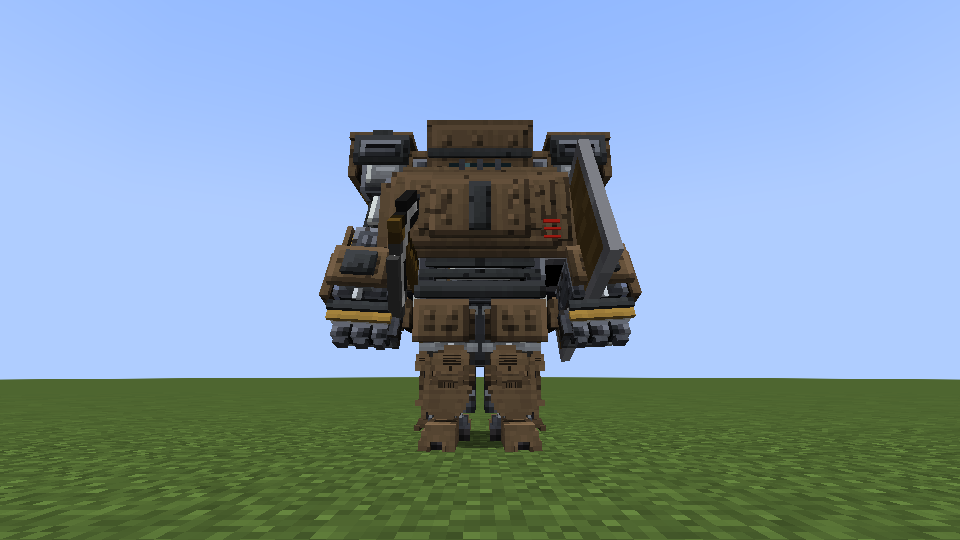
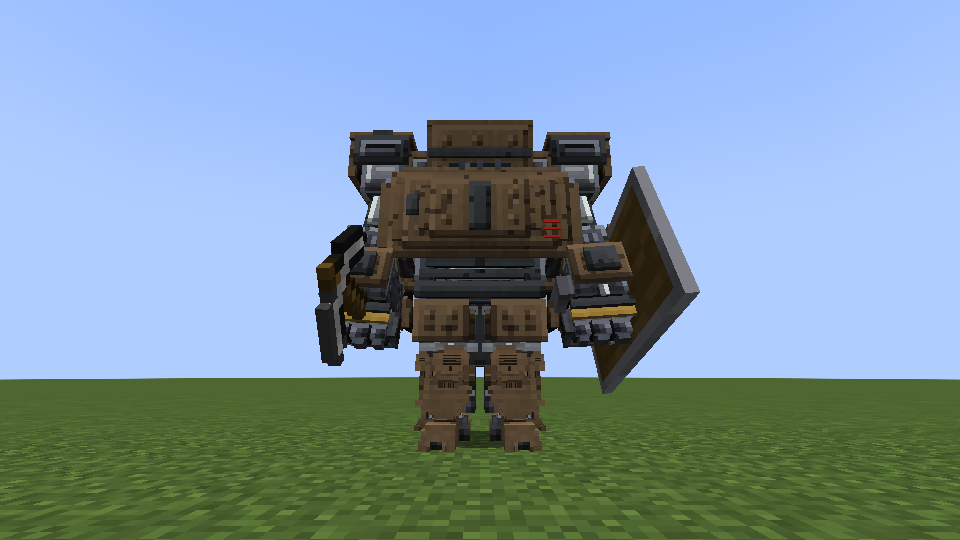
docs: movimento di arti e testa, gambe a un colore, riporti della revisione finale, scatti delle mani rifatti
- docs/arte/README.md: ampiezze vere del passo (gambe circa 69 e 80 gradi, braccia 49
  e 57) e i contatti fino a 81 gradi per gambe, braccia e testa da swing.py; il pezzo
  delle gambe ha solo la regione primaria (per la parte 3a resta cosi'); frasi superate
  (blocco della spina, anteprime rottame-v4 precedenti alle passate dopo) e rimando
  all'eccezione della parte bassa delle gambe.
- Checklist: cosa e' gia' noto in "Correre", "Vista laterale" e "Un secondo giocatore",
  con la domanda a Luigi; colori delle gambe; server dedicato come voce propria;
  pappagalli e frecce; dipendenze in mods; riga delle mani riscritta.
- Spec: due mixin (par. 3), materiale redstone_exoframes_frame, limiti del par. 5.1 come
  nel codice (y 0..31,25 e 0..32), nuova sezione 10 "Riporti dalla revisione finale
  della parte 3a" (3b, M4, prima dell'alpha).
- Scatti 1.21.1-neoforge-mani.png e 1.20.1-forge-mani.png rifatti: il manico del piccone
  nel pugno destro della tuta, lo scudo sul lato esterno del pugno sinistro.
- .gitattributes: script .sh sempre con fine riga LF (Git per Windows).

Claude-Session: https://claude.ai/code/session_018Fcbc2CFSwuiCoDaNxQwgt

Changed region(s): [[0.5625, 0.2667, 0.75, 0.7407], [0.3125, 0.3556, 0.4375, 0.6815]]

diff --git a/docs/test-in-gioco/m3a-vedere-il-telaio.md b/docs/test-in-gioco/m3a-vedere-il-telaio.md
@@ -41,14 +41,14 @@ Con `tools/client/m3a_shots.sh`, sul client di **sviluppo** di ogni variante (no
 | Sdraiati: tuta distesa a terra con il giocatore | sì | sì | sì | sì |
 | Log: avvisi del mod o errori dei mixin | nessuno | nessuno | nessuno | nessuno |
 
-Da sdraiati il pilota, dentro il telaio, si intravede appena dagli angoli raggiungibili dallo script: che stia nella tuta lo conferma il PC (sezione 2). Gli scatti di riferimento sono in `m3a-screenshot/`: per ogni variante `<variante>-armata-fronte.png` e `-armata-retro.png` (Rottame, stato 0), e per 1.21.1 NeoForge e 1.20.1 Forge anche `-nudo-fronte.png`, `-stati.png`, `-colori.png`, `-mani.png`, `-sdraiato.png`. Sono stati fatti con grafica "Dettagliata", campo visivo 70 e distanza di rendering 4.
+Da sdraiati il pilota, dentro il telaio, si intravede appena dagli angoli raggiungibili dallo script: che stia nella tuta lo conferma il PC (sezione 2). Gli scatti di riferimento sono in `m3a-screenshot/`: per ogni variante `<variante>-armata-fronte.png` e `-armata-retro.png` (Rottame, stato 0), e per 1.21.1 NeoForge e 1.20.1 Forge anche `-nudo-fronte.png`, `-stati.png`, `-colori.png`, `-mani.png`, `-sdraiato.png`. Sono stati fatti con grafica "Dettagliata", campo visivo 70 e distanza di rendering 4. I due `-mani.png` sono stati rifatti dopo la revisione finale, che ha portato l'oggetto impugnato dalla mano del gioco base ingrandita al pugno della tuta.
 
 Il cloud non prova tre cose, che sono il motivo di questa checklist: che il **jar di produzione** si avvii e applichi i suoi mixin fuori dall'ambiente di sviluppo (nel cloud gira il client di sviluppo di Loom); ciò che si vede **muovendosi** o da angolazioni che lo script non raggiunge; ciò che vede **un altro giocatore**.
 
 ## 0. Preparazione
 
 - [ ] Procurati i quattro jar di questa parte come nella sezione 0 di `m1-setup.md` (artefatto `redstone-exoframes-jars` dell'ultima esecuzione verde della CI sul branch **`m3-telaio`**, non su `main`: la parte 3a sta su `m3-telaio` finché non viene unita; dopo l'unione gli stessi jar vengono da `main`. Oppure build locale con `collectJar` da quel branch): `redstone-exoframes-fabric-0.1.0+mc1.20.1.jar`, `redstone-exoframes-fabric-0.1.0+mc1.21.1.jar`, `redstone-exoframes-forge-0.1.0+mc1.20.1.jar`, `redstone-exoframes-neoforge-0.1.0+mc1.21.1.jar`. Controllali con `bash tools/check_jars.sh <cartella>`.
-- [ ] Usa le quattro istanze client e i quattro server dedicati della milestone 1 (tabella dei profili in `m1-setup.md`, sezione 2: loader, Java e dipendenze, con GeckoLib). Sostituisci nella cartella `mods` il jar vecchio con quello nuovo; nient'altro in `mods`.
+- [ ] Usa le quattro istanze client e i quattro server dedicati della milestone 1 (tabella dei profili in `m1-setup.md`, sezione 2: loader, Java e dipendenze, con GeckoLib). Sostituisci nella cartella `mods` il jar vecchio con quello nuovo; in `mods` nessun altro mod oltre alle dipendenze della tabella (loader API e GeckoLib restano).
 - [ ] Tieni aperta la cartella `docs/test-in-gioco/m3a-screenshot/` del repository: contiene gli scatti di riferimento del cloud, citati sotto.
 - [ ] Per gli screenshot del gioco usa F2 (finiscono in `<istanza>\screenshots\`), con F1 per nascondere l'interfaccia e F5 per la terza persona.
 
@@ -72,22 +72,24 @@ Accanto a ogni voce lo scatto di riferimento. Gli scatti del cloud sono del clie
 - [ ] **Telaio nudo.** `/exoframe debug wear nudo`, F5 due volte. La tuta è alta circa tre blocchi, con i piedi a terra (non sprofonda e non galleggia); per misurarla metti accanto, a tre blocchi di distanza, una colonna di tre blocchi: la testa della tuta arriva più o meno alla sua cima. Il pilota si vede dalla vita in su dentro lo scheletro, con la testa nella testa della tuta; **le gambe del pilota non si vedono da nessun lato**. Riferimento: `m3a-screenshot/1.21.1-neoforge-nudo-fronte.png`, `m3a-screenshot/1.20.1-forge-nudo-fronte.png`.
 - [ ] **Rottame, stato 0.** `/exoframe debug wear rottame`. Davanti e dietro, **nessuna parte della skin** si vede: né testa, né busto, né braccia, né gambe, nemmeno il secondo strato (giacca, cappello). Da dietro si vede la cella di redstone accesa dietro le sue sbarre. Riferimento: `m3a-screenshot/<variante>-armata-fronte.png` e `-armata-retro.png` (uno per variante).
 - [ ] **Quattro stati.** `/exoframe debug wear rottame 0`, poi `1`, `2`, `3`: dal più pulito al più scuro e rovinato, nell'ordine; nello stato 3 la superficie è quasi carbone e metà delle spie è spenta. Riferimento: `m3a-screenshot/1.21.1-neoforge-stati.png`, `m3a-screenshot/1.20.1-forge-stati.png` (da sinistra stato 0, 1, 2, 3).
-- [ ] **Colori di prova.** `/exoframe debug wear rottame 0 3A6EA5 D9D9D9`. Le piastre principali diventano blu, le secondarie grigio chiaro; restano dei loro colori il telaio sotto (acciaio, ottone, cavi), vetri, sbarre, feritoie e fessure rosse. Riferimento: `m3a-screenshot/1.21.1-neoforge-colori.png`, `m3a-screenshot/1.20.1-forge-colori.png`.
-- [ ] **Oggetto in mano.** `/exoframe debug wear rottame`, poi un piccone di ferro nella mano principale e uno scudo nell'altra (`/item replace entity @s weapon.offhand with minecraft:shield`). Il piccone sta nella mano destra della tuta, grande come lei; lo scudo nella sinistra; nessuno dei due sotto i pugni della tuta o dentro il braccio. Nello scatto di riferimento, da davanti, il piccone si vede di taglio, come una barra scura che sale dal pugno destro della tuta (a sinistra per chi guarda); lo scudo copre l'avambraccio sinistro. Riferimento: `m3a-screenshot/1.21.1-neoforge-mani.png`, `m3a-screenshot/1.20.1-forge-mani.png`.
+- [ ] **Colori di prova.** `/exoframe debug wear rottame 0 3A6EA5 D9D9D9`. Le piastre principali diventano blu, le secondarie grigio chiaro; **sulle gambe tutto diventa blu**: dalla parte bassa delle gambe rifatta sul riferimento il pezzo delle gambe ha solo il colore primario (è noto, per ora resta così; se le gambe debbano avere di nuovo parti nel colore secondario lo decide Luigi). Restano dei loro colori il telaio sotto (acciaio, ottone, cavi), vetri, sbarre, feritoie e fessure rosse. Riferimento: `m3a-screenshot/1.21.1-neoforge-colori.png`, `m3a-screenshot/1.20.1-forge-colori.png`.
+- [ ] **Oggetto in mano.** `/exoframe debug wear rottame`, poi un piccone di ferro nella mano principale e uno scudo nell'altra (`/item replace entity @s weapon.offhand with minecraft:shield`). Il piccone sta nel pugno destro della tuta, grande come lei; lo scudo alla mano sinistra; nessuno dei due sotto i pugni della tuta, dentro il braccio o tra l'avambraccio e il busto. Nello scatto di riferimento, da davanti, il piccone si vede di taglio: il manico di legno scende nel pugno destro della tuta (a sinistra per chi guarda) e la testa di ferro, una barra scura, sta appena fuori dal pugno, verso l'esterno; lo scudo è inclinato sul lato esterno del pugno e dell'avambraccio sinistri e ne copre il bordo. Riferimento: `m3a-screenshot/1.21.1-neoforge-mani.png`, `m3a-screenshot/1.20.1-forge-mani.png`.
 - [ ] **Sdraiati.** `/exoframe debug wear nudo`, poi metti un blocco sopra la testa a un blocco d'altezza dai piedi (per esempio `/setblock ~ ~1 ~ minecraft:glass`): il gioco ti mette a strisciare. Tuta e pilota sono distesi insieme, a terra, la tuta non resta in piedi né sospesa. Guarda da dietro e di tre quarti: davanti, sdraiati, la telecamera finisce contro la testa. Lo scatto di riferimento è di tre quarti da dietro: stinchi e piedi della tuta sono la parte più vicina, a destra; la testa è dalla parte opposta, sotto e oltre il blocco di vetro; davanti a sinistra si vede una mano della tuta. Il pilota da quell'angolo non si vede. Riferimento: `m3a-screenshot/1.21.1-neoforge-sdraiato.png`, `m3a-screenshot/1.20.1-forge-sdraiato.png`.
 - [ ] **Via.** `/exoframe debug wear via`: la tuta sparisce, torna il giocatore normale, intero e a terra.
 - [ ] Nel log, dopo tutte queste prove, nessuna riga `ERROR` o `WARN` che nomina `redstone_exoframes`, `exoframe`, `geckolib` o un mixin.
 
 ## 3. Ciò che il cloud non vede
 
-- [ ] **Vista laterale.** Con la tuta Rottame e poi col telaio nudo, guarda di lato (in terza persona gira la visuale col mouse finché il corpo si gira, oppure da un secondo giocatore, voce "Un secondo giocatore" più sotto). Il pilota sta dentro la tuta anche di profilo: la testa non esce dal retro dell'elmo, il busto non esce dalla schiena. Fai uno screenshot di lato per ciascun caso.
+- [ ] **Vista laterale.** Con la tuta Rottame e poi col telaio nudo, guarda di lato. Da solo non si ottiene un profilo esatto: in terza persona, girando la visuale col mouse, il corpo segue la testa solo dopo circa 50 gradi, quindi si vede la tuta di tre quarti con la testa girata. Per il profilo vero serve il secondo client (voce "Un secondo giocatore" più sotto); qui guarda almeno di tre quarti. Il pilota sta dentro la tuta anche di profilo: la testa non esce dal retro dell'elmo, il busto non esce dalla schiena. Già noto: girando la testa, l'elmo gira dentro il collare e lo attraversa (l'elmo è incassato nel collare per disegno, e la tuta non ha ancora un'animazione propria). Fai uno screenshot di lato (o di tre quarti) per ciascun caso.
 - [ ] **Accovacciarsi.** Tieni premuto Shift con il telaio nudo e con il Rottame: la tuta si china con il pilota, i piedi restano a terra, il pilota non esce dal petto. Con un oggetto in mano, l'oggetto resta nella mano della tuta.
-- [ ] **Correre.** Corri (doppio W o Ctrl) per qualche secondo in terza persona: braccia e gambe della tuta si muovono con quelle del giocatore, nessun pezzo resta indietro o sfarfalla.
+- [ ] **Correre.** Corri (doppio W o Ctrl) per qualche secondo in terza persona: braccia e gambe della tuta si muovono con quelle del giocatore, nessun pezzo resta indietro o sfarfalla. Già noto, non è un errore da riportare: gli arti della tuta oscillano quanto quelli del giocatore (circa 70 gradi le gambe camminando, 80 correndo; le braccia 50 e 57), più di quanto la tuta permetta, quindi a ogni passo le piastre si attraversano: le gambe entrano nelle parti basse della schiena (correndo fino al fondo dell'alloggiamento della cella), le braccia passano nelle falde laterali del torso. La soluzione è prevista con le animazioni (milestone 4). **Domanda per Luigi:** guardando la corsa, è accettabile così fino ad allora? Rispondi sì o no, con uno screenshot preso nel mezzo di un passo.
 - [ ] **Nuotare.** Entra in acqua profonda e nuota con lo scatto (posa da nuoto): tuta e pilota restano uniti, come da sdraiati.
 - [ ] **Inventario.** Apri l'inventario in sopravvivenza (`/gamemode survival`, poi E): l'anteprima del giocatore mostra la tuta; annota se è tagliata dal riquadro (è grande, può succedere: riportalo con uno screenshot, non è un errore bloccante). Nessun crash.
 - [ ] **Skin normale e sottile.** Ripeti telaio nudo e Rottame con una skin a braccia larghe (Steve) e con una a braccia sottili (Alex), dalle impostazioni della skin del launcher. Con la sottile le braccia del pilota stanno ancora nella tuta e l'oggetto impugnato resta nella mano della tuta.
 - [ ] **Mantello.** Con un account che ha un mantello (se disponibile; altrimenti annota "non provato"): con la tuta il mantello si vede o no, e dove. Riporta uno screenshot da dietro; qualunque cosa si veda è un'informazione per Luigi, non c'è un risultato atteso.
-- [ ] **Un secondo giocatore.** Avvia il server dedicato della variante con il nuovo jar (cartella del server di `m1-setup.md`), entra con due client (due account, o due istanze dello stesso launcher). Il primo esegue `/exoframe debug wear rottame 1 3A6EA5 D9D9D9` (serve essere operatore: `op <nome>` dalla console del server). Il secondo lo guarda da davanti, di lato e da dietro mentre il primo sta fermo, cammina, si accovaccia, tiene un oggetto: vede la stessa tuta, stesso stato e stessi colori, e il pilota dentro. La targhetta col nome del primo resta all'altezza normale di un giocatore (dentro la tuta, all'altezza del petto): è noto e voluto fino alla parte 3b, annotalo solo se è diverso. Poi `/exoframe debug wear via`: anche il secondo vede sparire la tuta.
+- [ ] **Pappagalli e frecce.** In creativa, con la tuta Rottame: fai salire un pappagallo sulla spalla (uovo generatore di pappagallo, addomesticalo con dei semi, poi, se è seduto, fallo alzare con il clic destro e passagli accanto finché non ti sale sulla spalla) e fatti colpire da qualche freccia (`/gamemode survival` e un dispensatore con frecce, o un secondo giocatore con l'arco). Pappagallo e frecce conficcate seguono il pilota, non la tuta: annota dove si vedono, con uno screenshot; come per il mantello, non c'è un risultato atteso.
+- [ ] **Server dedicato.** Avvia il server dedicato della variante con il nuovo jar (cartella del server di `m1-setup.md`, sezione del server: stesso loader, stessi jar in `mods`, `eula=true`). Attendi `Done (...)!` in `logs\latest.log` del server, senza righe `ERROR` del mod. Entra con un client, diventa operatore (`op <nome>` dalla console del server), esegui `/exoframe debug wear rottame` e poi `/exoframe debug wear via`: nessun crash del server né del client. Questa voce si fa anche con un solo account.
+- [ ] **Un secondo giocatore.** Sul server della voce precedente entra con due client (due account, o due istanze dello stesso launcher). Il primo esegue `/exoframe debug wear rottame 1 3A6EA5 D9D9D9` (serve essere operatore: `op <nome>` dalla console del server). Il secondo lo guarda da davanti, di lato e da dietro mentre il primo sta fermo, cammina, si accovaccia, tiene un oggetto: vede la stessa tuta, stesso stato e stessi colori, e il pilota dentro. La targhetta col nome del primo resta all'altezza normale di un giocatore (dentro la tuta, all'altezza del petto): è noto e voluto fino alla parte 3b, annotalo solo se è diverso. Da qui si vede anche il profilo vero della tuta (voce "Vista laterale"): fai uno screenshot di lato. Anche qui, camminando, le piastre si attraversano (voce "Correre"): è noto; annota solo se l'effetto visto da un altro giocatore ti sembra diverso da quello in terza persona. Poi `/exoframe debug wear via`: anche il secondo vede sparire la tuta.
 - [ ] **Fluidità.** Con la tuta Rottame in terza persona, guarda il contatore F3 (fps) per un minuto confrontandolo con lo stesso posto senza tuta (`/exoframe debug wear via`). Annota i due valori; un calo grande (oltre un terzo) è da riportare. Nessuno scatto o blocco del gioco.
 - [ ] **Prima persona.** In prima persona il braccio è quello normale del giocatore (la tuta in prima persona arriva in una milestone successiva): annotalo solo se è diverso.
 
@@ -98,7 +100,8 @@ Per ognuna delle quattro varianti:
 - [ ] esito (OK / non OK) di ogni voce delle sezioni 1, 2 e 3;
 - [ ] per la sezione 1, se il client non parte: crash report e ultime cento righe di `latest.log`;
 - [ ] per ogni voce non OK: uno screenshot con l'interfaccia nascosta (F1) e una riga che dice cosa si vede di diverso dal riferimento (per esempio "gambe del pilota visibili sotto il petto", "scudo sotto il pugno sinistro", "tuta sospesa mezzo blocco da sdraiati");
-- [ ] gli screenshot chiesti anche quando va tutto bene: Rottame di lato, accovacciati, anteprima nell'inventario, il mantello, la vista del secondo giocatore;
+- [ ] gli screenshot chiesti anche quando va tutto bene: Rottame di lato, accovacciati, a metà di un passo di corsa, anteprima nell'inventario, il mantello, pappagallo e frecce, la vista del secondo giocatore;
+- [ ] la risposta di Luigi alla domanda della voce "Correre" (piastre che si attraversano: accettabile fino alla milestone 4, sì o no);
 - [ ] ogni riga `ERROR` o `WARN` del log che nomina il mod, GeckoLib o un mixin, con qualche riga di contesto;
 - [ ] gli fps con e senza tuta;
 - [ ] versioni realmente usate (loader, Java, dipendenze) se diverse dalla tabella di `m1-setup.md`, e i passi saltati con il motivo.

diff --git a/docs/superpowers/specs/2026-11-13-m3-telaio-design.md b/docs/superpowers/specs/2026-11-13-m3-telaio-design.md
@@ -32,7 +32,7 @@ Perché ora: è il pezzo tecnicamente nuovo rispetto a Mjolnir e quello da cui d
 - Quattro varianti da un solo sorgente (Stonecutter + Architectury Loom); condizioni solo in `compat/impl`, `platform/` e `compat/Ids.java` (`tools/check_sources.sh`).
 - `core/` resta Java 17 puro e testato con JUnit.
 - Lo stato del telaio per giocatore vive nel `SavedData` (`FrameStateAccess`); le scritture a ogni tick passano da `mutate` e la sincronizzazione al proprietario resta sotto le 5 volte al secondo.
-- I mixin si usano solo dove nessun evento copre il bisogno (scelta del costruttore, vedi §4.3 e §4.7). Oggi ce n'è uno, lato client, sul disegno del giocatore; tutto il resto passa da eventi Architectury o da hook per loader in `platform/`.
+- I mixin si usano solo dove nessun evento copre il bisogno (scelta del costruttore, vedi §4.3 e §4.7). Oggi ce ne sono due, lato client, sul disegno del giocatore (`PlayerRendererMixin` e `ItemInHandLayerMixin`, §4.7); tutto il resto passa da eventi Architectury o da hook per loader in `platform/`.
 - La grafica è generata da script: i file generati sono committati, lo script li rigenera identici e la CI lo verifica.
 - Licenza "tutti i diritti riservati"; il controllo di privacy sui jar resta verde (i PNG generati non hanno metadati).
 - Dal 13 novembre 2026 il client vero gira anche nel cloud, senza schermo (Xvfb e OpenGL software), su tutte e quattro le varianti: uno script avvia client e server locale, esegue comandi e salva screenshot in terza persona. La resa e l'applicazione dei mixin si verificano lì; il PC di Luigi resta per la conferma e per ciò che lo script non copre (vista laterale vera, fluidità, audio, secondo giocatore).
@@ -116,7 +116,7 @@ Come si misura "uguali": il riferimento è stato ricampionato nei pixel del mode
 
 - **Direzione artistica:** scelta da Luigi fra tre anteprime (spike in corso). Qualunque sia, valgono le convenzioni sotto.
 - **Convenzioni della geometria** (dalla ricognizione, obbligatorie per `GeoArmorRenderer`): ossa di primo livello `armorHead`, `armorBody`, `armorRightArm`, `armorLeftArm`, `armorRightLeg`, `armorLeftLeg`, con i perni del modello armatura di GeckoLib (testa e corpo 0,24,0; braccia ∓5,22,0; gambe ∓2,12,0). Sotto ciascuna: `frame<Parte>` (telaio nudo, sempre visibile) e il pezzo, diviso per stato visivo e per regione di colore.
-- **Proporzioni (revisione del 13 novembre, §4.7):** la geometria resta nelle coordinate standard del modello armatura, con i perni invariati, e viene resa in scala S = 1,4 attorno ai piedi. In quelle coordinate il pilota è una figura ridotta di 1/S attorno al punto (0, 24, 0): testa tra y 24 e 29,7, busto tra 15,4 e 24, mani a 15,4; le gambe non si disegnano. Testa della tuta, cosce chiuse, bacino e impugnature dei comandi si disegnano attorno a quella figura. Limiti dell'ingombro del disegno approvato da Luigi (quarta passata della prova d'arte): telaio nudo entro x ±12,75, y 0..30,7, z −8..10; con i pezzi entro x ±13,5, y ≤ 31,5, z −8,75..10,5 (circa 2,1 e 2,2 blocchi di larghezza). Il telaio della seconda passata, più stretto, è stato scartato da Luigi («perché lo hai reso più magro?»).
+- **Proporzioni (revisione del 13 novembre, §4.7):** la geometria resta nelle coordinate standard del modello armatura, con i perni invariati, e viene resa in scala S = 1,4 attorno ai piedi. In quelle coordinate il pilota è una figura ridotta di 1/S attorno al punto (0, 24, 0): testa tra y 24 e 29,7, busto tra 15,4 e 24, mani a 15,4; le gambe non si disegnano. Testa della tuta, cosce chiuse, bacino e impugnature dei comandi si disegnano attorno a quella figura. Limiti dell'ingombro del disegno approvato da Luigi (quarta passata della prova d'arte): telaio nudo entro x ±12,75, y 0..31,25, z −8..10; con i pezzi entro x ±13,5, y 0..32, z −8,75..10,5 (i limiti che usano il generatore, `exo.FRAME_MIN/MAX` e `exo.SUIT_MIN/MAX`, e `ExoframeGeometryTest`, aggiornati con la scala 1,65) (circa 2,1 e 2,2 blocchi di larghezza). Il telaio della seconda passata, più stretto, è stato scartato da Luigi («perché lo hai reso più magro?»).
 - **Densità e resa (revisione del 13 novembre):** due texel per pixel del modello, quindi un atlante più grande; pittura da metallo: spazzolatura, bordi chiari consumati, incavi scuri, bulloni con punto luce. Unica eccezione, per la parte bassa delle gambe (§4.7): le scatole che portano righe sottili (feritoie, tacche) hanno 8 texel per pixel; su quelle facce la pittura di base è la stessa a due texel per pixel, ingrandita, e solo le righe usano la risoluzione fine.
 - **Stati visivi senza passate multiple (scelta del costruttore):** ogni pezzo ha quattro copie della sua geometria, una per stato (integro, danneggiato, critico, rotto), che puntano a quattro zone diverse dello stesso atlante; il renderer mostra una sola copia. Una sola texture e una sola passata per il telaio intero.
 - **Colori:** dentro ogni copia, tre ossa per regione: primaria, secondaria (texture in toni di grigio, colorate dal renderer) e neutra (metallo, cavi, non colorata). Nomi: `piece<Parte>_s<0-3>_p1`, `_p2`, `_n`.
@@ -135,7 +135,7 @@ Dalla ricognizione, opzione (a): un `RenderLayer` vanilla sul renderer del gioca
 - `client/SuitLayer`: codice comune; costruisce la `SuitView` dal riassunto visivo e chiama `SuitRenderer`.
 - `compat/ClientRenderHooks`: `addPlayerLayer` (Fabric `LivingEntityFeatureRendererRegistrationCallback`; Forge `AddLayers` con le skin per nome; NeoForge `AddLayers` con `PlayerSkin.Model`) e la registrazione del renderer dell'entità (Architectury).
 - **Scala e pilota (revisione del 13 novembre, §4.7):** `client/SuitScale` tiene S e il sollevamento del pilota. `client/SuitLayer` disegna la tuta in scala S attorno ai piedi. Per chi indossa il telaio, un mixin client su `PlayerRenderer`, comune alle quattro varianti, sposta in alto il disegno del giocatore di 24·(S−1) pixel del modello (nello spazio del modello, in coda a `scale`: così pilota e tuta restano uniti e a terra in ogni posa, anche da sdraiati) e, dentro `render` subito dopo `setModelProperties`, toglie dal disegno le gambe (sempre) e le parti coperte da un pezzo montato: testa con l'elmo, busto con il torso, ogni braccio con il suo pezzo, secondo strato della skin compreso. Un secondo mixin su `ItemInHandLayer.renderArmWithItem` porta l'oggetto impugnato nella mano della tuta, partendo dal perno corrente del braccio, e lo ingrandisce di S. La targhetta col nome resta all'altezza vanilla finché la parte 3b non dà alla tuta l'ingombro reale. Con il telaio nudo il pilota si vede dalla vita in su dentro lo scheletro, ed è voluto. La prima persona non cambia: il braccio resta quello vanilla fino a M4.
-- **Segnaposto invisibili:** su 1.21.1 il materiale `frame` passa a `layers = List.of()`; su 1.20.1 si aggiungono due texture trasparenti `frame_layer_1.png` e `frame_layer_2.png` nel namespace `minecraft` (il nome del materiale resta senza namespace).
+- **Segnaposto invisibili:** su 1.21.1 il materiale `frame` passa a `layers = List.of()`; su 1.20.1 il materiale si chiama `redstone_exoframes_frame` (senza namespace, con il prefisso del mod perché non coincida con un materiale di altre mod o di un pacchetto di risorse) e si aggiungono due texture trasparenti `redstone_exoframes_frame_layer_1.png` e `redstone_exoframes_frame_layer_2.png` nel namespace `minecraft`.
 - **Comando di debug (3a):** `/exoframe debug wear [rottame|nudo|via]` mette o toglie al giocatore uno stato di prova e i segnaposto, per vedere il risultato sul PC prima che esista l'entità.
 
 ### 5.3 Stato e dati (3b)
@@ -234,3 +234,33 @@ Forme esatte delle ricette; valori di ritmo del caricatore e soglie di movimento
 - **Movimento deciso dal client** (scatto, nuoto): serve codice sui due lati e prova sul PC.
 - **Mixin client su quattro varianti (§4.7):** un bersaglio sbagliato fa crollare il gioco all'avvio. Mitigazione: firme verificate sui jar vanilla e su quelli patchati dai loader, controllo in `tools/check_jars.sh` che la configurazione dei mixin sia nei jar e che i nomi nelle annotazioni abbiano la forma giusta per ogni loader (questa versione di Loom non produce refmap), avvio del client vero di ogni variante nel cloud; il 13 novembre i due mixin si sono applicati su tutte e quattro.
 - **Qualità della grafica generata:** è sufficiente per un'alpha in stile Minecraft; resta sostituibile da un artista senza toccare il codice, perché i nomi delle ossa e la disposizione sono fissati qui.
+
+## 10. Riporti dalla revisione finale della parte 3a
+
+Cose che la revisione finale della parte 3a (13 novembre) ha trovato e lasciato a dopo, ciascuna con il motivo. È l'unico posto in cui sopravvivono: vanno copiate nel piano della parte o della milestone indicata quando viene scritto.
+
+**Per la parte 3b**
+
+- **Riquadro di culling e targhetta del nome con la grandezza reale.** Il gioco decide se disegnare il giocatore dal suo box (0,6 × 1,8 blocchi, allargato di 0,5), ma la tuta arriva a 3,09 blocchi di altezza e ±1,31 di larghezza: ai bordi dello schermo, da vicino, giocatore e tuta spariscono insieme quando solo testa, spalle o un braccio della tuta sono inquadrati, e le mod di occlusione possono nascondere una tuta la cui testa dovrebbe vedersi sopra un muro. La targhetta del nome resta all'altezza di un giocatore normale, dentro la tuta. Tutte e due si sistemano con la grandezza reale (§8, domanda 2; decisione 27 della revisione 3 del piano); anche allora le braccia restano 0,3-0,4 blocchi fuori dal box.
+- **`SuitRenderer` per un'entità che non è un `LivingEntity`.** Oggi `render` prende un `LivingEntity`, ma l'entità telaio di 3b è un `Entity` semplice (§4.2 B); a GeckoLib basta `Entity`. Il contratto da tenere: l'entità non è un animabile di GeckoLib, perché solo per quelle GeckoLib chiama l'aggancio che applica la visibilità di pezzi e stati (scritto nel Javadoc dell'interfaccia).
+- **Test di regressione: la scrittura del riassunto visivo sostituisce quella precedente.** Oggi `setSuitSummary` costruisce un `visual` nuovo, ma nessun test lo prova; quando 3b riscrive il riassunto a ogni cambio di pezzo, uno slot rimasto dalla scrittura prima continuerebbe a disegnare un pezzo tolto.
+- **Mantello, pappagalli sulle spalle e frecce conficcate seguono il pilota**, non la tuta (il mantello si disegna qualunque sia la visibilità del busto, e `PlayerModel.cloak` è privato: nasconderlo vuole un accessor o tutte le parti spente). Si decide dopo la prova sul PC, che li fotografa.
+- **Il pilota non si riallinea da accovacciato.** Accovacciati, il gioco abbassa testa, busto e braccia del modello di 4,2, 3,2 e 5,2 px e GeckoLib fa lo stesso sulle ossa della tuta, ma in pixel della tuta (cioè per S): il pilota resta 2,7 px (testa), 2,1 (busto) e 3,4 (braccia) più in alto del dovuto. L'oggetto impugnato è già corretto; il pilota no, e si vede solo col telaio nudo o con pezzi mancanti (la testa non esce dalla testa del telaio). Da correggere con un sollevamento che tiene conto dell'accovacciarsi, comune a `PilotPose.onScale` e a `SuitLayer`, se la prova sul PC lo trova evidente.
+- **Test delle decisioni del renderer.** Visibilità di ossa e stati e colori per regione (`SuitRendererImpl`) non hanno test; da fare quando 3b riusa il renderer per l'entità telaio.
+- **Il colore secondario del pezzo delle gambe.** Dalla parte bassa delle gambe rifatta sul riferimento di Luigi il pezzo delle gambe è tutto nella regione primaria: il colore secondario non cambia nulla sulle gambe, mentre §2 e §5.1 danno a ogni pezzo due colori. Per 3a resta così; decisione di Luigi. Proposta del costruttore: una fascia corazzata alla caviglia e altre parti piccole nella regione secondaria, così l'aspetto predefinito non cambia.
+- **Primo compito d'arte di 3b, prima di cambiare `tools/art/designs/`:** nei controlli del modello (`exo.Model.check`) contare come copertura solo ciò che si disegna sempre insieme (il telaio e i pezzi degli slot delle due facce, mai le decalcomanie), perché con armatura parziale, normale in 3b, una faccia coperta solo dal pezzo di un altro slot sfarfalla; `_buried` che controlla le celle da un quarto di pixel e non solo i centri dei texel (oggi una striscia scoperta di 0,25 px su un lato dispari può sparire senza messaggio); test negativi committati dei controlli del generatore (oggi stampano solo "nessun problema", e un controllo spento passerebbe inosservato); la scala letta da `exo.py` in `tools/art/preview/shot.js`, dove oggi è scritta una terza volta senza test; l'ultimo texel di una linea sottile, incluso, che rende la stessa linea un texel fine più lunga sulla faccia davanti che su quella dietro (cambia la texture, per questo non è stato toccato); vettorializzare `Face.occlusion` (oggi il 61 % dei 26 s della build) se un secondo livello raddoppia il modello.
+
+**Per M4**
+
+- **Arti e testa che attraversano le piastre della tuta.** Le ossa della tuta prendono le rotazioni del giocatore una a una (gambe circa ±69 gradi camminando e ±80 correndo, braccia ±49 e ±57): a ogni passo le gambe entrano nelle parti lombari e, correndo, fino all'alloggiamento della cella; le braccia passano nelle falde laterali del torso; l'elmo gira dentro il collare (misure in `docs/arte/README.md`, da `tools/art/swing.py --part tutto`). Due strade, scelta di Luigi: un passo proprio della tuta (animazione), oppure un'oscillazione ridotta degli arti della tuta nel renderer.
+- **`getInstanceId` da ridefinire in `SuitRendererImpl` prima di qualunque controller di animazione.** In GeckoLib 4.9 l'id predefinito è `(long) Math.pow(idEntità, 7) * -(slot + 1)`, che satura per gli id da 512 in su: su 1.21.1 tutte quelle entità condividerebbero un `AnimatableManager`. Oggi è innocuo perché non ci sono animazioni.
+- **Il contatto della coscia in avanti** con la falda davanti del torso (da 1 grado) e con la pancia (da 29).
+- **Le braccia del pilota allargate dentro le braccia della tuta**, invece di pendere lungo il corpo.
+- **Il generatore oltre un livello:** i nomi delle ossa non portano il livello, un secondo livello grande come il Rottame non ci sta nelle regioni dei pezzi dell'atlante, e grandezza e regioni dell'atlante sono fisse anche nel test Java (`tools/art/README.md`, "Aggiungere un livello").
+
+**Prima dell'alpha pubblica**
+
+- **Codice di prova nei jar pubblicati:** le classi dei test in mondo (`gametest/ExoframeGameTests`, `GameTests.writeRawItemData`), le due strutture vuote `structure/empty.nbt` e `structures/empty.nbt` (ogni versione ne legge una: la cartella di risorse per versione può tenerle separate) e il comando `/exoframe debug` (solo operatori). Oggi sono inerti in produzione; si decide se e cosa pubblicare.
+- **Visori di ricette** che elencano tutto il registro degli item: mostrerebbero i quattro segnaposto e `suit_model`.
+- **Grandezza e posizione delle decalcomanie** (3,5 × 3,5 px, sulla piastra del braccio e non sullo spallaccio): da far vedere a Luigi prima di M5.
+- **Politica dei mixin in caso di conflitto:** oggi sono obbligatori (`required`, `defaultRequire: 1`), quindi un'altra mod che cambia la stessa chiamata ferma il client invece di degradare; scelta del costruttore, da confermare con Luigi.

diff --git a/docs/arte/README.md b/docs/arte/README.md
@@ -4,7 +4,7 @@ La grafica (modelli, texture, animazioni) è generata da script nella sessione c
 
 ## Direzione
 
-Esoscheletro industriale pesante: sagoma massiccia, piastre rivettate, pistoni e tubi a vista, una fonte di energia sulla schiena. L'ispirazione generale indicata da Luigi sono le armature potenziate di Fallout 4 e Iron Monger (Iron Man, 2008). Si prende l'idea, non le forme: nessun elmo, piastra, simbolo o scritta riconoscibile di design esistenti.
+Esoscheletro industriale pesante: sagoma massiccia, piastre rivettate, pistoni e tubi a vista, una fonte di energia sulla schiena. L'ispirazione generale indicata da Luigi sono le armature potenziate di Fallout 4 e Iron Monger (Iron Man, 2008). Si prende l'idea, non le forme: nessun elmo, piastra, simbolo o scritta riconoscibile di design esistenti. Unica eccezione, per decisione esplicita di Luigi: la parte bassa delle gambe, dal ginocchio in giù, riproduce quella del suo riferimento (sesta passata, più sotto, e design della milestone 3, §4.7).
 
 Stile Minecraft: scatole allineate agli assi, texture a pixel senza sfumature morbide.
 
@@ -12,7 +12,7 @@ Stile Minecraft: scatole allineate agli assi, texture a pixel senza sfumature mo
 
 ## Telaio e pezzi Rottame approvati (quarta passata, 13 novembre 2026)
 
-Anteprime in `anteprime/rottame-v4/`, in scala 1,65, fatte con `node shot.js` in `tools/art/preview/` (il pilota è disegnato come nel gioco e non fa parte del modello):
+Anteprime in `anteprime/rottame-v4/`, in scala 1,65, fatte con `node shot.js` in `tools/art/preview/` (il pilota è disegnato come nel gioco e non fa parte del modello). Sono precedenti alle passate successive (luci dello stato rotto corrette, pittura del Task 13, schiena della quinta passata, parte bassa delle gambe della sesta) e non sono state rifatte: la tuta di oggi è nelle anteprime `dopo-*` di `rottame-v6/` e negli screenshot di `docs/test-in-gioco/m3a-screenshot/`.
 - `telaio-fronte.png`, `telaio-retro.png` (3/4), `telaio-lato.png` (lato destro), `telaio-porta.png` (davanti, griglia a blocchi, porta 1×2 in bianco, box di collisione in piedi in giallo): il telaio nudo, con il pilota visibile dalla vita in su;
 - `armata-fronte.png`, `armata-retro.png`, `armata-lato.png`, `armata-porta.png`: i sei pezzi Rottame montati, stato 0, colori predefiniti;
 - `armata-fronte-stato1.png`, `-stato2.png`, `-stato3.png`: gli stessi pezzi negli stati danneggiato, critico e rotto;
@@ -22,7 +22,7 @@ Anteprime in `anteprime/rottame-v4/`, in scala 1,65, fatte con `node shot.js` in
 
 **Pezzi Rottame** (`tools/art/designs/scrap.py`, 240 scatole per stato: schiena della quinta passata e parte bassa delle gambe della sesta). Armatura pesante a piastre di recupero. Elmo basso e stretto, incassato nel collare: calotta e tetto a gradino, piastra del viso a due gradini con una banda di visione orizzontale dietro tre sbarre, tettuccio scuro sopra, tre feritoie per l'aria sul mento. Torso: petto a tre lastre annidate con angoli a gradino e una chiglia verticale scura al centro, tre fessure luminose basse sul lato sinistro, una toppa a destra, collare attorno alla testa, vita a tre fasce scure, falde basse davanti e sui fianchi, schiena a strati (sotto); **gli spallacci stanno nel torso** (perché gli attuatori delle spalle sono del busto): tre strati piatti, gonne esterna, davanti e dietro, feritoie a lamelle davanti, una toppa sullo spallaccio destro. Braccia: piastra esterna del braccio, cubitiera, bracciale grosso (esterno, davanti, dietro, rinforzo, toppa dietro), paranocche. Gambe: cosciale; dal ginocchio in giù la sesta passata (sotto). Braccia e gambe sinistre sono la copia speculare delle destre (un solo item per braccio e uno per gamba): nella prova la toppa del bracciale c'era solo a sinistra, qui c'è su tutti e due. Elmo e torso restano asimmetrici.
 
-**Regioni di colore.** Ogni pezzo ha tre ossa per stato: `_p1` (primaria: lastre del petto, collare, falde, spallacci, piastre principali di braccia e gambe, calotta e viso dell'elmo), `_p2` (secondaria: chiglia, toppe, vita, strati alti e gonne degli spallacci, rinforzi, tetto e tettuccio dell'elmo) e `_n` (neutra: vetro della visiera, sbarre, feritoie per l'aria, lamelle degli spallacci, fessure luminose). Le prime due hanno texture in grigio chiaro che il gioco moltiplica per il colore del pezzo; la neutra ha i colori finali. Braccia e gambe non hanno parti neutre (le loro ossa `_n` esistono, vuote).
+**Regioni di colore.** Ogni pezzo ha tre ossa per stato: `_p1` (primaria: lastre del petto, collare, falde, spallacci, piastre principali di braccia e gambe, calotta e viso dell'elmo), `_p2` (secondaria: chiglia, toppe, vita, strati alti e gonne degli spallacci, rinforzi, tetto e tettuccio dell'elmo) e `_n` (neutra: vetro della visiera, sbarre, feritoie per l'aria, lamelle degli spallacci, fessure luminose). Le prime due hanno texture in grigio chiaro che il gioco moltiplica per il colore del pezzo; la neutra ha i colori finali. Braccia e gambe non hanno parti neutre (le loro ossa `_n` esistono, vuote). **Il pezzo delle gambe ha solo la regione primaria** dalla sesta passata (Task 14): tutto ciò che nel riferimento ha il colore dell'armatura sta in `_p1`, quindi le sue ossa `_p2` esistono, vuote, e il colore secondario non cambia nulla sulle gambe (con `wear rottame 0 3A6EA5 D9D9D9` le gambe diventano tutte blu). Per la parte 3a resta così; se dare di nuovo alle gambe una regione secondaria lo decide Luigi (proposta nel design della milestone 3, "Riporti dalla revisione finale della parte 3a").
 
 **Stati visivi.** Quattro copie di ogni pezzo con le stesse scatole: 0 integro, 1 danneggiato, 2 critico, 3 rotto; il gioco ne mostra una. Cambia solo la pittura, e ogni segno nasce nello stesso punto in tutti gli stati e cresce con lo stato, così il pezzo invecchia invece di cambiare:
 - 0: vernice consumata ai bordi, scheggiature piccole, colature sotto i rivetti (come nelle tavole approvate);
@@ -76,7 +76,13 @@ Anteprime in `anteprime/rottame-v6/`: `prima-*` (quinta passata) e `dopo-*` per 
 
 **Dove resta una differenza.** Le proporzioni: più tozza di 1,3 in larghezza, voluto. I bordi curvi del riferimento (fondo dello scudo, cima del cuscinetto, colletto) sono gradini da 0,25 px; i contorni neri disegnati del riferimento non ci sono, il rilievo si legge dalla luce e dall'ombra. La barra nell'arco del polpaccio sta a y 3,5-3,75 invece di 3,75-4, con il nero sopra, e il fondo nero sopra di essa è un gradino più indietro: più su o più in fuori toccavano la schiena con la gamba indietro prima che all'inizio del compito (vedi sotto). La striscia scura interna dietro il polpaccio del riferimento non c'è: toccava il blocco della spina, e dietro c'è già il ginocchio scuro del telaio. La piastra alta ha la fila in cima un gradino più indietro, perché in avanti toccava la pancia.
 
-**Gambe in movimento.** Le gambe ruotano attorno all'asse x, quindi non cambiano x: il bordo interno di ogni piede sta a 0,25 px dal piano di mezzo e non può entrare nell'altra gamba. Contro il busto lo misura `python3 tools/art/swing.py --all` (ogni scatola della gamba, cosce comprese, ruotata attorno al perno di grado in grado fino a 60, compenetrazione esatta con ogni scatola del busto; le coppie già compenetrate da ferme non contano). Il bacino abbraccia le prese delle cosce, quindi anello della vita e sedile si toccano subito, come nel disegno approvato: da 5 gradi la fascia alta della coscia con il fianco della vita, da 6 con il sedile, da 9 (indietro) o 18 (avanti) con la vita davanti, da 21 il mozzo dell'anca con la staffa; nella tuta armata, in avanti, il cosciale tocca la falda davanti da 1 grado, la vita da 10, la pancia da 29. All'indietro la prima parte della schiena toccata è a 41 gradi, come prima di questa passata (la vita dietro, dalla presa della coscia); le parti nuove stanno fuori dall'arco della coscia: con la parte bassa delle gambe della sesta passata (terza versione), per ogni scatola della schiena il primo contatto non è prima che all'inizio del Task 14: la piastra lombare del pezzo e la trave lombare a 45 gradi (dalla piastra del polpaccio), la seconda piastra lombare a 53, la fascia di feritoie a 56, il blocco della spina a 57 (dal ginocchio; prima a 42); nel telaio nudo la trave a 55 (prima 52), il blocco della spina mai (prima 57); le scapole, i puntoni e le piastre dei fianchi mai. In avanti i contatti sono identici a prima. Camminando le gambe oscillano di circa 40-55 gradi.
+**Gambe in movimento.** Le gambe ruotano attorno all'asse x, quindi non cambiano x: il bordo interno di ogni piede sta a 0,25 px dal piano di mezzo e non può entrare nell'altra gamba. Contro il busto lo misura `python3 tools/art/swing.py --max 60 --all` (ogni scatola della gamba, cosce comprese, ruotata attorno al perno di grado in grado fino a 60, il limite di quando è stata scritta questa passata; compenetrazione esatta con ogni scatola del busto; le coppie già compenetrate da ferme non contano). Il bacino abbraccia le prese delle cosce, quindi anello della vita e sedile si toccano subito, come nel disegno approvato: da 5 gradi la fascia alta della coscia con il fianco della vita, da 6 con il sedile, da 9 (indietro) o 18 (avanti) con la vita davanti, da 21 il mozzo dell'anca con la staffa; nella tuta armata, in avanti, il cosciale tocca la falda davanti da 1 grado, la vita da 10, la pancia da 29. All'indietro la prima parte della schiena toccata è a 41 gradi, come prima di questa passata (la vita dietro, dalla presa della coscia); le parti nuove stanno fuori dall'arco della coscia: con la parte bassa delle gambe della sesta passata (terza versione), per ogni scatola della schiena il primo contatto non è prima che all'inizio del Task 14: la piastra lombare del pezzo e la trave lombare a 45 gradi (dalla piastra del polpaccio), la seconda piastra lombare a 53, la fascia di feritoie a 56, il blocco della spina a 57 (dal ginocchio; prima a 42); nel telaio nudo la trave a 55 (prima 52), il blocco della spina a 57 come prima; fino a 60 gradi le scapole, i puntoni e le piastre dei fianchi mai. In avanti i contatti sono identici a prima. Oltre i 60 gradi vedi il paragrafo seguente: il passo vero arriva più in là.
+
+**Arti e testa in movimento, ampiezze vere.** Le ossa della tuta prendono una a una le rotazioni del modello del giocatore. Nel gioco base (`HumanoidModel.setupAnim`, letto con javap su 1.20.1) la gamba oscilla di 1,4 rad e il braccio di 1,0 rad per la velocità dell'animazione del passo: circa ±69 gradi le gambe e ±49 le braccia camminando, ±80 e ±57 correndo; la testa segue lo sguardo, in su e in giù fino a 90 gradi, a destra e a sinistra fino a circa 50 oltre il corpo. `python3 tools/art/swing.py --part tutto --all` misura i contatti nuovi fino a 81 gradi (predefinito) per gambe, braccia e testa; i numeri qui sotto sono il suo risultato a questo commit.
+- *Gambe, indietro.* Tuta armata: piastra lombare del pezzo e trave lombare 45, seconda piastra lombare 53, fascia di feritoie 56, blocco della spina 57, fondo dell'alloggiamento della cella (`pack_bottom`) 63, colonna e pavimento dell'alloggiamento 73, cornice bassa della cella 76. Telaio nudo: trave 55, blocco della spina 57, feritoie 61, `pack_bottom` 70, cornice bassa della cella 80. Quindi ogni passo attraversa le parti lombari e arriva al fondo dell'alloggiamento, e la corsa arriva alla cornice della cella. *In avanti*, oltre i contatti di prima: pancia 29, montante del petto 32, bordo del sedile 46, seconda e terza lastra della pancia (`belly_2`, `belly_3`) 62 e 72.
+- *Braccia* (tuta armata; in avanti e indietro). La mano tocca la falda laterale del torso da 1 grado; indietro lamelle e fianco 2, piastra di fondo 6, puntoni della schiena da 21 (il loro attacco sul giogo a 69), scapole 25, 38 e 44, colonna dell'alloggiamento 47; in avanti petto 13, fianco del petto 18, seconda lastra del petto 56. Telaio nudo: l'impugnatura tocca il montante del petto a 8 gradi in avanti, la gabbia il pistone del busto a 7 indietro, i puntoni della schiena da 25, la colonna dell'alloggiamento a 47.
+- *Testa.* L'elmo è incassato nel collare per disegno: già a riposo 13 coppie di scatole tra testa (telaio ed elmo) e busto si compenetrano. Ogni rotazione a destra o a sinistra aggiunge contatti con il collare da 1 grado; guardando in su l'elmo tocca i cappelli dei camini a 15 gradi e la piastra di fondo a 16; guardando in giù la lastra alta del petto a 5, i montanti del petto a 20, la seconda lastra a 28, la terza a 41.
+Le piastre quindi si attraversano a ogni passo, le braccia passano nelle falde laterali e l'elmo gira dentro il collare. Per la parte 3a è noto e la checklist lo chiede a Luigi; la soluzione (un passo proprio della tuta o un'oscillazione ridotta degli arti della tuta nel renderer) è un punto del design di M4 (design della milestone 3, "Riporti dalla revisione finale della parte 3a").
 
 **Misure.** Altezza e larghezza invariate: telaio nudo 3,02 × 2,47 × 1,57 blocchi (i piedi nuovi sono più corti davanti, da z −6,25), con i pezzi 3,09 × 2,61 × 1,79.
 
